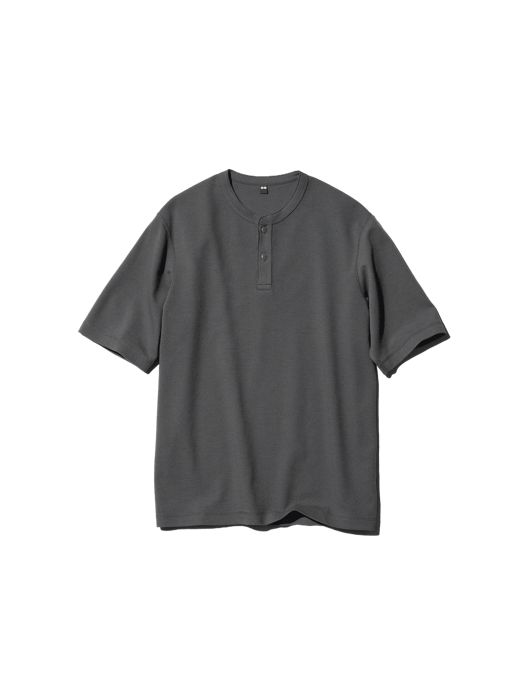
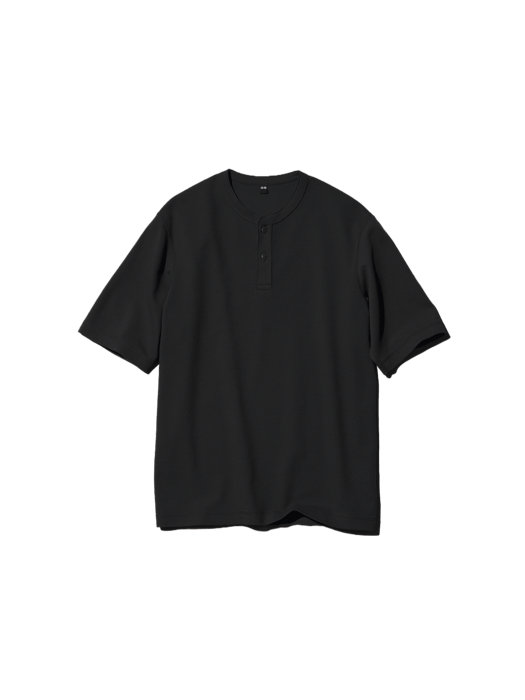
feat: owner-confirmed colours, second AIRism tee, focus spotlight on rails
Colour corrections from the owner: AIRism tee relabelled cream/off-white
and a second olive AIRism added (seed-23, flat cutout from Uniqlo code 57);
waffle henley cutout darkened to black via sharp (no black flat exists).
Seed sync now also copies color_primary and appends seed items introduced
in newer versions; SEED_VERSION → 4.

Rails get a focus spotlight: hovering (desktop) or the garment nearest the
viewport centre while side-scrolling (mobile) springs forward — scale up,
pulled down off the rail, top z-index — while neighbours stay stacked.

Changed region(s): [[0.1524, 0.24, 0.8533, 0.78]]

diff --git a/src/components/home/ClosetRail.jsx b/src/components/home/ClosetRail.jsx
@@ -1,4 +1,4 @@
-import { useRef } from 'react';
+import { useRef, useState } from 'react';
 import { Link } from 'react-router-dom';
 import { Plus } from 'lucide-react';
 import { useMotionValue, useSpring } from 'framer-motion';
@@ -11,16 +11,36 @@ import HangingItem from './HangingItem';
 export default function ClosetRail({ label, emoji, items, variant = 'rail', onItemClick }) {
   const stacked = variant === 'rail';
 
+  // Which garment is "in focus": popped to the front, fully visible, while its
+  // neighbours stay stacked behind. Desktop sets it on hover; mobile sets it to
+  // whichever garment is nearest the viewport centre while side-scrolling.
+  const [focus, setFocus] = useState(null);
+  const hovering = useRef(false);
+
   // Scroll velocity → swing angle. The raw value snaps with each scroll event;
   // the spring (low damping) turns that into a pendulum wobble that dies out.
   const swingRaw = useMotionValue(0);
   const swing = useSpring(swingRaw, { stiffness: 170, damping: 9, mass: 0.8 });
   const lastLeft = useRef(null);
   const settle = useRef(null);
+  const rafPending = useRef(false);
+
+  function focusNearestCentre(el) {
+    const mid = el.scrollLeft + el.clientWidth / 2;
+    let best = null, bestDist = Infinity;
+    // children = item wrappers (+ trailing Add link, skipped via dataset check)
+    for (const child of el.children) {
+      if (child.dataset.index === undefined) continue;
+      const d = Math.abs(child.offsetLeft + child.offsetWidth / 2 - mid);
+      if (d < bestDist) { bestDist = d; best = Number(child.dataset.index); }
+    }
+    setFocus(best);
+  }
 
   function handleScroll(e) {
     if (!stacked) return;
-    const left = e.currentTarget.scrollLeft;
+    const el = e.currentTarget;
+    const left = el.scrollLeft;
     if (lastLeft.current !== null) {
       const dx = left - lastLeft.current;
       // Content moves opposite the drag; hanging clothes trail behind it.
@@ -29,6 +49,12 @@ export default function ClosetRail({ label, emoji, items, variant = 'rail', onIt
     lastLeft.current = left;
     clearTimeout(settle.current);
     settle.current = setTimeout(() => { swingRaw.set(0); lastLeft.current = null; }, 90);
+
+    // Touch scrolling has no hover — spotlight whatever passes the centre.
+    if (!hovering.current && !rafPending.current) {
+      rafPending.current = true;
+      requestAnimationFrame(() => { rafPending.current = false; focusNearestCentre(el); });
+    }
   }
 
   if (!items?.length) return null;
@@ -50,13 +76,20 @@ export default function ClosetRail({ label, emoji, items, variant = 'rail', onIt
         ) : null}
 
         <div
-          className={`flex overflow-x-auto pt-1.5 px-4 scrollbar-hide ${stacked ? 'pb-4' : 'gap-1.5 pb-2 snap-x'}`}
+          className={`flex overflow-x-auto pt-1.5 px-4 scrollbar-hide ${stacked ? 'pb-8' : 'gap-1.5 pb-2 snap-x'}`}
           style={stacked ? { perspective: '700px' } : undefined}
           onScroll={handleScroll}
         >
           {items.map((item, i) => (
-            <div key={item.id} className={stacked && i > 0 ? '-ml-9' : ''} style={stacked ? { zIndex: items.length - i } : undefined}>
-              <HangingItem item={item} index={i} variant={variant} stacked={stacked} swing={swing} onClick={onItemClick} />
+            <div
+              key={item.id}
+              data-index={i}
+              className={stacked && i > 0 ? '-ml-9' : ''}
+              style={stacked ? { zIndex: focus === i ? 300 : items.length - i } : undefined}
+              onMouseEnter={stacked ? () => { hovering.current = true; setFocus(i); } : undefined}
+              onMouseLeave={stacked ? () => { hovering.current = false; setFocus(null); } : undefined}
+            >
+              <HangingItem item={item} index={i} variant={variant} stacked={stacked} focused={stacked && focus === i} swing={swing} onClick={onItemClick} />
             </div>
           ))}
 

diff --git a/src/context/WardrobeContext.jsx b/src/context/WardrobeContext.jsx
@@ -63,8 +63,14 @@ export function WardrobeProvider({ children }) {
         items = items.map(item => {
           const fresh = seedMap.get(item.id);
           if (!fresh) return item;
-          return { ...item, image_url: fresh.image_url, needs_photo: fresh.needs_photo, notes: fresh.notes };
+          return { ...item, image_url: fresh.image_url, needs_photo: fresh.needs_photo, notes: fresh.notes, color_primary: fresh.color_primary };
         });
+        // Seed items added in newer versions won't exist in older localStorage —
+        // append them so the closet stays complete.
+        const have = new Set(items.map(i => i.id));
+        for (const fresh of SEED_WARDROBE) {
+          if (!have.has(fresh.id)) items.push(fresh);
+        }
         saveLocal('items', items);
         saveLocal('seedVersion', SEED_VERSION);
       }

diff --git a/src/data/seedWardrobe.js b/src/data/seedWardrobe.js
@@ -5,7 +5,7 @@ import { DEMO_USER_ID } from '../lib/demoMode';
 
 // Bump this whenever SEED_WARDROBE's image_url/data changes, so demo mode
 // re-syncs browsers that already seeded an older version from localStorage.
-export const SEED_VERSION = 3;
+export const SEED_VERSION = 4;
 
 const RAW_ITEMS = [
   { name: 'Low Gauge High Neck Sweater', brand: 'Uniqlo', category: 'Top', subcategory: 'Other', color_primary: 'Black', color_secondary: null, size: 'L', fit_type: 'Regular', fabric: 'Acrylic, Wool, Polyester, Polyurethane Blend (Estimated)', occasion: ['Casual', 'Smart Casual'], season: ['Winter'], condition: 'Good', original_price_inr: 2990, care_instructions: ['Hand wash cold', 'Dry flat', 'Do not tumble dry'], image_url: '/cutouts/seed-1.png', needs_photo: false, notes: 'Product ID: 479733. Heavyweight knit with a high-neck profile.' },
@@ -13,8 +13,8 @@ const RAW_ITEMS = [
   { name: 'Souffle Yarn Half-Zip Sweater', brand: 'Uniqlo', category: 'Top', subcategory: 'Other', color_primary: 'Beige', color_secondary: null, size: 'L', fit_type: 'Relaxed', fabric: 'Acrylic, Polyester, Nylon, Wool Blend (Estimated)', occasion: ['Casual', 'Smart Casual'], season: ['Winter'], condition: 'Good', original_price_inr: 2990, care_instructions: ['Hand wash cold', 'Dry flat'], image_url: '/cutouts/seed-3.png', needs_photo: false, notes: 'Product ID: 478546. Soft, non-itchy souffle yarn fabric with half-zip collar.' },
   { name: 'Pleated Wide Pants', brand: 'Uniqlo', category: 'Bottom', subcategory: 'Trousers', color_primary: 'Black', color_secondary: null, size: 'M', fit_type: 'Wide-leg', fabric: 'Polyester, Rayon, Polyurethane Blend (Estimated)', occasion: ['Casual', 'Smart Casual', 'Night Out'], season: ['All Season'], condition: 'Good', original_price_inr: 2990, care_instructions: ['Machine wash cold, gentle cycle', 'Line dry'], image_url: '/cutouts/seed-4.png', needs_photo: false, notes: 'Product ID: 479364. Pleated front drape with a wide silhouette.' },
   { name: 'Stretch Easy Ankle Pants', brand: 'Uniqlo', category: 'Bottom', subcategory: 'Trousers', color_primary: 'Olive', color_secondary: null, size: 'M', fit_type: 'Regular', fabric: '97% Cotton, 3% Elastane', occasion: ['Casual', 'Smart Casual'], season: ['All Season', 'Summer'], condition: 'Good', original_price_inr: 2490, care_instructions: ['Machine wash cold, gentle cycle', 'Do not dry clean', 'Do not tumble dry'], image_url: '/cutouts/seed-5.png', needs_photo: false, notes: 'Product ID: 479134. Relaxed tapered cut with sleek ankle length and elastic drawstring waist.' },
-  { name: 'Waffle Henley T-Shirt', brand: 'Uniqlo', category: 'Top', subcategory: 'Henley', color_primary: 'Black', color_secondary: null, size: 'M', fit_type: 'Regular', fabric: '45% Polyester, 30% Elastomultiester, 25% Viscose', occasion: ['Casual'], season: ['Summer'], condition: 'Good', original_price_inr: 1490, care_instructions: ['Machine wash cold, gentle cycle', 'Dry clean', 'Do not tumble dry'], image_url: '/cutouts/seed-6.png', needs_photo: false, notes: 'Product ID: 475361. Waffle textured material with a buttoned henley neck profile. Cutout shown in dark grey — owned in Black.' },
-  { name: 'AIRism Cotton Oversized Crew Neck T-Shirt', brand: 'Uniqlo', category: 'Top', subcategory: 'T-Shirt', color_primary: 'Grey', color_secondary: null, size: 'M', fit_type: 'Oversized', fabric: '53% Cotton, 30% Polyester, 17% Elastomultiester', occasion: ['Casual', 'Smart Casual'], season: ['Summer'], condition: 'Good', original_price_inr: 1490, care_instructions: ['Machine wash cold', 'Dry clean', 'Do not tumble dry'], image_url: '/cutouts/seed-7.png', needs_photo: false, notes: 'Product ID: 475355. Uniqlo U collection. Features dropped shoulders and half-length sleeves.' },
+  { name: 'Waffle Henley T-Shirt', brand: 'Uniqlo', category: 'Top', subcategory: 'Henley', color_primary: 'Black', color_secondary: null, size: 'M', fit_type: 'Regular', fabric: '45% Polyester, 30% Elastomultiester, 25% Viscose', occasion: ['Casual'], season: ['Summer'], condition: 'Good', original_price_inr: 1490, care_instructions: ['Machine wash cold, gentle cycle', 'Dry clean', 'Do not tumble dry'], image_url: '/cutouts/seed-6.png', needs_photo: false, notes: 'Product ID: 475361. Waffle textured material with a buttoned henley neck profile. Cutout darkened to match the owned black.' },
+  { name: 'AIRism Cotton Oversized Crew Neck T-Shirt', brand: 'Uniqlo', category: 'Top', subcategory: 'T-Shirt', color_primary: 'Off-White', color_secondary: null, size: 'M', fit_type: 'Oversized', fabric: '53% Cotton, 30% Polyester, 17% Elastomultiester', occasion: ['Casual', 'Smart Casual'], season: ['Summer'], condition: 'Good', original_price_inr: 1490, care_instructions: ['Machine wash cold', 'Dry clean', 'Do not tumble dry'], image_url: '/cutouts/seed-7.png', needs_photo: false, notes: 'Product ID: 475355. Uniqlo U collection. Features dropped shoulders and half-length sleeves. Owned in cream/white.' },
   { name: 'Peanuts Short Sleeve UT', brand: 'Uniqlo', category: 'Top', subcategory: 'T-Shirt', color_primary: 'Rust', color_secondary: 'White', size: 'M', fit_type: 'Oversized', fabric: '100% Cotton', occasion: ['Casual'], season: ['Summer'], condition: 'Good', original_price_inr: 1490, care_instructions: ['Machine wash cold', 'Do not dry clean', 'Tumble dry low'], image_url: '/cutouts/seed-8.png', needs_photo: false, notes: 'Product ID: 477814. Graphic T-shirt featuring a vintage Peanuts print with contrasting orange raglan sleeves.' },
   { name: 'Men Cricket Teamwear Jacket', brand: 'Puma', category: 'Outerwear', subcategory: 'Other', color_primary: 'Navy', color_secondary: 'Black', size: 'M', fit_type: 'Regular', fabric: '100% Polyester', occasion: ['Casual'], season: ['Winter'], condition: 'Good', original_price_inr: 2999, care_instructions: ['Machine wash warm, gentle cycle', 'Do not iron print', 'Close all fastenings', 'Use detergent for colours'], notes: 'Purchased from Myntra. Full-zip closure, regular-fit knit profile, and PUMA Cat logo at the chest.' },
   { name: 'Men Ligra 8 Indoor Shoes', brand: 'Adidas', category: 'Footwear', subcategory: 'Sneakers', color_primary: 'White', color_secondary: 'Black', size: '9', fit_type: 'Regular', fabric: 'Synthetic Leather and Mesh Upper, Rubber Outsole', occasion: ['Casual'], season: ['All Season'], condition: 'Good', original_price_inr: 6999, care_instructions: ['Wipe with a clean, dry cloth to remove dust', 'Do not machine wash or tumble dry'], image_url: '/cutouts/seed-10.png', needs_photo: false, notes: 'Indoor court sports shoe featuring reinforced Adituff toe protection, a cushioned midsole, and breathable mesh zones.' },
@@ -30,6 +30,7 @@ const RAW_ITEMS = [
   { name: 'Men Black Mid-Rise Outdoor Sports Shorts', brand: 'Puma', category: 'Bottom', subcategory: 'Shorts', color_primary: 'Black', color_secondary: null, size: '32', fit_type: 'Regular', fabric: '100% Polyester', occasion: ['Casual'], season: ['Summer'], condition: 'Good', original_price_inr: 1799, care_instructions: ['Machine wash cold, gentle cycle', 'Do not use fabric softener', 'Iron on reverse side'], image_url: 'https://assets.ajio.com/medias/sys_master/root/20210205/1GCo/601c4960aeb26969815dddcd/-78Wx98H-460836102-black-MODEL.jpg', needs_photo: false, notes: 'Purchased from Myntra. Lightweight fabric built for outdoor fitness and training.' },
   { name: 'Men Leather Grand Court 2.0 Tennis Shoes', brand: 'Adidas', category: 'Footwear', subcategory: 'Sneakers', color_primary: 'Navy', color_secondary: 'White', size: '9', fit_type: 'Regular', fabric: 'Recycled Synthetic Leather Upper, Rubber Cupsole', occasion: ['Casual'], season: ['All Season'], condition: 'Good', original_price_inr: 6599, care_instructions: ['Wipe clean with a damp cloth', 'Air dry naturally away from direct sunlight'], image_url: '/cutouts/seed-21.png', needs_photo: false, notes: 'Purchased from Myntra. Iconic court design with Cloudfoam Comfort cushioning and stitched 3-Stripes. Stock photo shown in Black/Gold colourway — owned in Navy/White.' },
   { name: 'Men Mustard Yellow & White Geometric Printed Kurta', brand: 'Anouk', category: 'Top', subcategory: 'Other', color_primary: 'Camel', color_secondary: 'White', size: 'M', fit_type: 'Regular', fabric: '100% Cotton', occasion: ['Casual', 'Night Out'], season: ['Summer'], condition: 'Good', original_price_inr: 1999, care_instructions: ['Machine wash cold', 'Wash dark colors separately', 'Turn inside out before laundering'], notes: 'Purchased from Myntra. All-over geometric pattern on lightweight pure cotton fabric with side pockets.' },
+  { name: 'AIRism Cotton Oversized Crew Neck T-Shirt (Olive)', brand: 'Uniqlo', category: 'Top', subcategory: 'T-Shirt', color_primary: 'Olive', color_secondary: null, size: 'M', fit_type: 'Oversized', fabric: '53% Cotton, 30% Polyester, 17% Elastomultiester', occasion: ['Casual', 'Smart Casual'], season: ['Summer'], condition: 'Good', original_price_inr: 1490, care_instructions: ['Machine wash cold', 'Dry clean', 'Do not tumble dry'], image_url: '/cutouts/seed-23.png', needs_photo: false, notes: 'Product ID: 475355. Second AIRism tee, owned in sage/olive green.' },
 ];
 
 export const SEED_WARDROBE = RAW_ITEMS.map((item, i) => ({

diff --git a/src/components/home/HangingItem.jsx b/src/components/home/HangingItem.jsx
@@ -5,7 +5,7 @@ import { CATEGORY_EMOJI, COLOUR_MAP } from '../../constants/categories';
 // (shelf variant). Rail garments pivot from the hook (transform-origin at the
 // hanger) and swing with the rail's scroll spring — each with a slightly
 // different factor so a packed rack sways organically, not in lockstep.
-export default function HangingItem({ item, index = 0, variant = 'rail', stacked = false, swing, onClick }) {
+export default function HangingItem({ item, index = 0, variant = 'rail', stacked = false, focused = false, swing, onClick }) {
   const emoji = CATEGORY_EMOJI[item.category] || '👔';
   const tilt = ((index % 3) - 1) * 1.5; // -1.5°, 0°, +1.5°
   const swatch = item.color_primary ? COLOUR_MAP[item.color_primary] : null;
@@ -53,6 +53,10 @@ export default function HangingItem({ item, index = 0, variant = 'rail', stacked
             transformOrigin: '50% 10px', // pivot at the hanger hook on the rail
             transformPerspective: 700,
           }}
+          // Focused garment slides forward off the rail — like pulling a hanger
+          // out to look at the piece — then springs back when focus moves on.
+          animate={focused ? { scale: 1.14, y: 10 } : { scale: 1, y: 0 }}
+          transition={{ type: 'spring', stiffness: 260, damping: 22 }}
         >
           {/* Hanger — hook crosses the rail above */}
           <svg width="60" height="38" viewBox="0 0 64 40" className="relative z-10 -mb-2">

diff --git a/HANDOFF.md b/HANDOFF.md
@@ -84,6 +84,10 @@ the read/write API in planStore.js can stay identical.
   their hangers* while scrolling: scroll velocity → underdamped spring
   (`ClosetRail.jsx`), per-item swing factor + rotateY fan for fake 3D depth
   (`HangingItem.jsx`). Labels hidden on stacked rails (peek modal has them).
+- **Focus spotlight** — hover (desktop) or nearest-centre-while-scrolling
+  (mobile) pops a garment forward: scale 1.14 + y-offset spring, zIndex 300
+  (`focus` state in ClosetRail, `focused` prop in HangingItem). Note: scroll
+  events/rAF are suspended in hidden tabs, so this can't be tested headlessly.
 - **min-w-0 fix in AppLayout** — without it, mobile horizontal rails stretched
   the page instead of scrolling. Do not remove.
 
@@ -98,7 +102,12 @@ store CDN CORS blocks). Key learnings baked into the script:
   cutting those keeps the model, which looked wrong).
 - AJIO blocks non-browser fetches (returns placeholder bytes) → the two Puma
   AJIO items (seed-16, seed-20) keep remote thumbnails / emoji.
-- `SEED_VERSION` bumped to 3 — existing localStorage re-syncs image/notes.
+- `SEED_VERSION` is 4 — existing localStorage re-syncs image/notes/colour on
+  version bump, and **appends seed items added in newer versions** (see
+  `WardrobeContext.fetchAll`). Owner-confirmed colours: pleated pants black,
+  half-zip beige, lambswool grey, ankle pants olive, AIRism tee owned twice
+  (seed-7 cream/off-white + seed-23 olive), henley black (grey flat cutout
+  darkened via sharp — no black flat exists on Uniqlo's CDN).
 - Runtime "Cut out garment" button (Home peek modal) remains for user-added
   photos; hidden for `data:`/`/cutouts/` images. `removeBgSmart()` in
   `bgRemove.js` falls back through two CORS proxies for remote images.